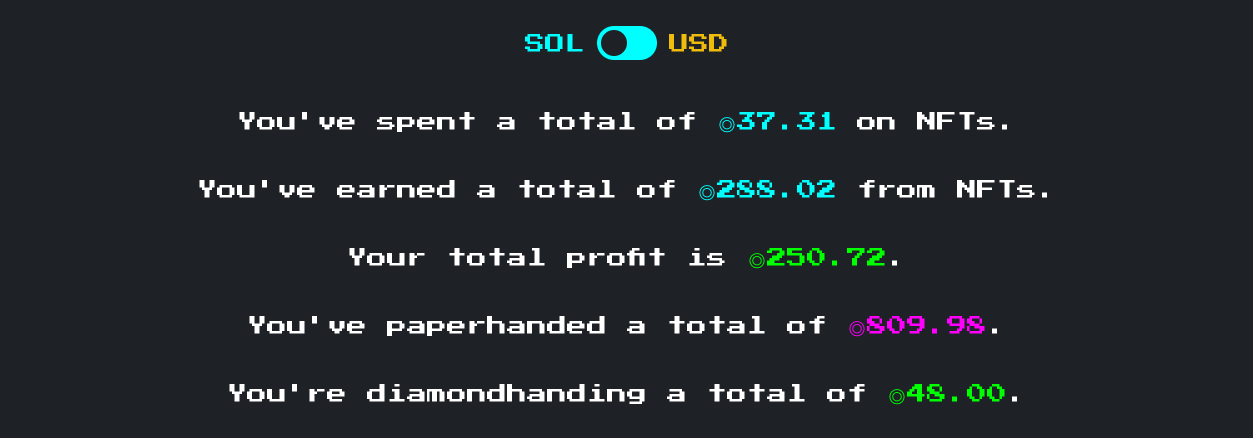
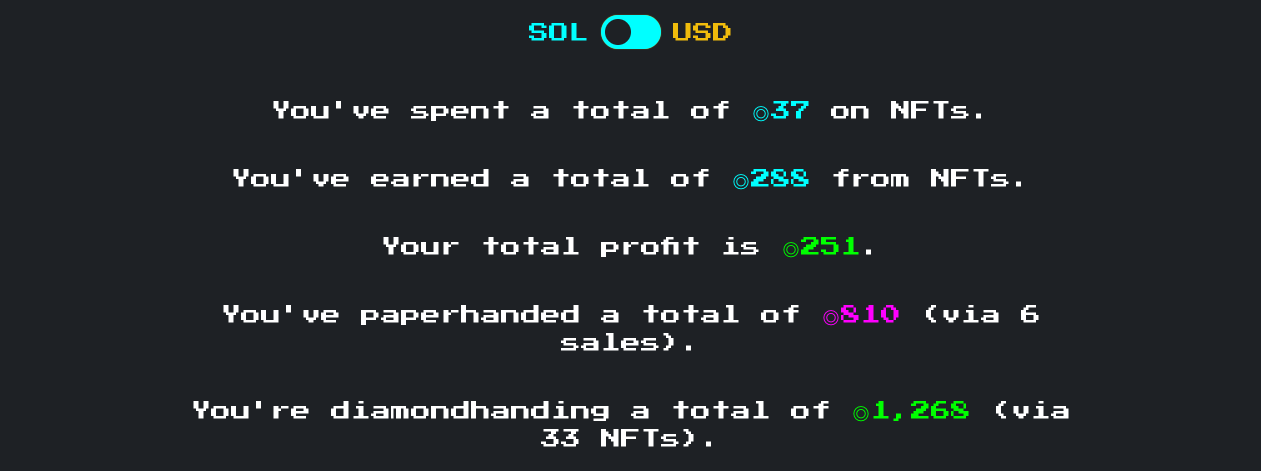
Ready for prod

diff --git a/src/views/ViewHome.vue b/src/views/ViewHome.vue
@@ -25,19 +25,19 @@
 
       <div>
         <h1 class="mt-10 w500:text-xl">You've spent a total of
-          <span class="text-rb-blue">{{ isSol ? '◎' : '$' }}{{ totalSpend.toFixed(2) }}</span> on NFTs.
+          <span class="text-rb-blue">{{ isSol ? '◎' : '$' }}{{ f(totalSpend) }}</span> on NFTs.
         </h1>
         <h1 class="my-10 w500:text-xl">You've earned a total of
-          <span class="text-rb-blue">{{ isSol ? '◎' : '$' }}{{ totalEarnings.toFixed(2) }}</span> from NFTs.
+          <span class="text-rb-blue">{{ isSol ? '◎' : '$' }}{{ f(totalEarnings) }}</span> from NFTs.
         </h1>
         <h1 class="my-10 w500:text-xl">Your total {{ neg(totalProfit) ? 'loss' : 'profit' }} is
-          <span :class="neg(totalProfit) ? 'text-rb-pink' : 'text-rb-green'">{{ isSol ? '◎' : '$' }}{{ totalProfit.toFixed(2) }}</span>.
+          <span :class="neg(totalProfit) ? 'text-rb-pink' : 'text-rb-green'">{{ isSol ? '◎' : '$' }}{{ f(totalProfit) }}</span>.
         </h1>
         <h1 class="my-10 w500:text-xl">You've paperhanded a total of
-          <span :class="neg(totalPaperhanded) ? 'text-rb-green' : 'text-rb-pink'">{{ isSol ? '◎' : '$' }}{{ totalPaperhanded.toFixed(2) }}</span> (via {{paperSales}} sales).
+          <span :class="neg(totalPaperhanded) ? 'text-rb-green' : 'text-rb-pink'">{{ isSol ? '◎' : '$' }}{{ f(totalPaperhanded) }}</span> (via {{paperSales}} sales).
         </h1>
-        <h1 class="mb-10 w500:text-xl">You're diamondhanding a total of
-          <span :class="neg(totalDiamondhanded) ? 'text-rb-pink' : 'text-rb-green'">{{ isSol ? '◎' : '$' }}{{ totalDiamondhanded.toFixed(2) }}</span> (via {{diamondNFTs}} NFTs).
+        <h1 class="mb-20 w500:text-xl">You're diamondhanding a total of
+          <span :class="neg(totalDiamondhanded) ? 'text-rb-pink' : 'text-rb-green'">{{ isSol ? '◎' : '$' }}{{ f(totalDiamondhanded) }}</span> (via {{diamondNFTs}} NFTs).
         </h1>
       </div>
 
@@ -106,6 +106,7 @@ import TheCurrencySlider from "@/components/TheCurrencySlider.vue";
 import TheViewOptions from "@/components/TheViewOptions.vue";
 import TheAdvancedOptions from "@/components/TheAdvancedOptions.vue";
 import TheSolanaLogo from "@/components/TheSolanaLogo.vue";
+import {f} from '@/common/util';
 
 export default defineComponent({
   components: {
@@ -300,7 +301,7 @@ export default defineComponent({
 
     const shareText = computed(() => {
       const host = window.location.origin;
-      const text = encodeURI(`I aped🍌 into ${isSol.value ? '◎' : '$'}${totalSpend.value.toFixed(2)} worth of NFTs, paperhanded🧻 ${isSol.value ? '◎' : '$'}${totalPaperhanded.value.toFixed(2)}, and am diamondhanding💎 ${isSol.value ? '◎' : '$'}${totalDiamondhanded.value.toFixed(2)}.`)
+      const text = encodeURI(`I aped🍌 into ${isSol.value ? '◎' : '$'}${f(totalSpend.value)} worth of NFTs, paperhanded🧻 ${isSol.value ? '◎' : '$'}${f(totalPaperhanded.value)}, and am diamondhanding💎 ${isSol.value ? '◎' : '$'}${f(totalDiamondhanded.value)}.`)
       const url = encodeURI(`${host}/addr/${address.value!}`)
       const hashtags = encodeURI('NFTs,Solana')
       return `text=${text}&url=${url}&hashtags=${hashtags}`
@@ -352,6 +353,7 @@ export default defineComponent({
       progress,
       // sharing
       shareText,
+      f,
     }
   }
 })

diff --git a/src/components/NFTCard.vue b/src/components/NFTCard.vue
@@ -13,12 +13,12 @@
             <a class="ml-5" :href="`https://explorer.solana.com/address/${nft.mint}`" target="_blank">🔗</a>
           </div>
 
-          <p v-if="nft.boughtAt" class="text">Bought for: <span class="text-rb-blue">{{ isSol ? '◎' : '$' }}{{ nft.boughtAt.toFixed(2) }}</span></p>
-          <p v-if="nft.soldAt" class="text">Sold for: <span class="text-rb-blue">{{ isSol ? '◎' : '$' }}{{nft.soldAt.toFixed(2)}}</span></p>
-          <p v-if="nft.currentPrices" class="text">Current {{priceMethod}}: <span class="text-rb-blue">{{ isSol ? '◎' : '$' }}{{nft.currentPrices[priceMethod].toFixed(2)}}</span></p>
-          <p v-if="nft.profit" class="text">{{neg(nft.profit) ? 'Loss' : 'Profit'}} from sale: <span :class="neg(nft.profit) ? 'text-rb-pink' : 'text-rb-green'">{{ isSol ? '◎' : '$' }}{{ nft.profit.toFixed(2) }}</span></p>
-          <p v-if="nft.paperhanded" class="text">Paperhanded worth: <span :class="neg(nft.paperhanded[priceMethod]) ? 'text-rb-green' : 'text-rb-pink'">{{ isSol ? '◎' : '$' }}{{ nft.paperhanded[priceMethod].toFixed(2) }}</span></p>
-          <p v-if="nft.diamondhanded" class="text">Diamondhanding worth: <span :class="neg(nft.diamondhanded[priceMethod]) ? 'text-rb-pink' : 'text-rb-green'">{{ isSol ? '◎' : '$' }}{{ nft.diamondhanded[priceMethod].toFixed(2) }}</span></p>
+          <p v-if="nft.boughtAt" class="text">Bought for: <span class="text-rb-blue">{{ isSol ? '◎' : '$' }}{{ f(nft.boughtAt) }}</span></p>
+          <p v-if="nft.soldAt" class="text">Sold for: <span class="text-rb-blue">{{ isSol ? '◎' : '$' }}{{ f(nft.soldAt) }}</span></p>
+          <p v-if="nft.currentPrices" class="text">Current {{priceMethod}}: <span class="text-rb-blue">{{ isSol ? '◎' : '$' }}{{ f(nft.currentPrices[priceMethod]) }}</span></p>
+          <p v-if="nft.profit" class="text">{{neg(nft.profit) ? 'Loss' : 'Profit'}} from sale: <span :class="neg(nft.profit) ? 'text-rb-pink' : 'text-rb-green'">{{ isSol ? '◎' : '$' }}{{ f(nft.profit) }}</span></p>
+          <p v-if="nft.paperhanded" class="text">Paperhanded worth: <span :class="neg(nft.paperhanded[priceMethod]) ? 'text-rb-green' : 'text-rb-pink'">{{ isSol ? '◎' : '$' }}{{ f(nft.paperhanded[priceMethod]) }}</span></p>
+          <p v-if="nft.diamondhanded" class="text">Diamondhanding worth: <span :class="neg(nft.diamondhanded[priceMethod]) ? 'text-rb-pink' : 'text-rb-green'">{{ isSol ? '◎' : '$' }}{{ f(nft.diamondhanded[priceMethod]) }}</span></p>
           <p v-if="!nft.currentPrices" class="text text-gray-400">This NFT collection is missing prices:( Fix by
             <a href="https://github.com/ilmoi/nftape.me#-important---adding-nft-collections" target="_blank">sending a PR</a> (~2min)</p>
         </div>
@@ -29,6 +29,7 @@
 
 <script lang="ts">
 import {defineComponent} from "vue";
+import {f} from '@/common/util'
 
 export default defineComponent({
   props: {
@@ -38,7 +39,7 @@ export default defineComponent({
   },
   setup() {
     const neg = (amount: number) => amount < 0
-    return {neg}
+    return {neg, f}
   }
 })
 </script>

diff --git a/src/common/util.ts b/src/common/util.ts
@@ -3,7 +3,8 @@
 import { PublicKey } from '@solana/web3.js';
 import BN from 'bn.js';
 import bs58 from 'bs58';
-import { INFTData } from '@/common/types';
+
+const numeral = require('numeral');
 
 export async function okToFailAsync(callback: any, args: any[], wantObject = false) {
   try {
@@ -108,4 +109,9 @@ export function removeItemOnce(arr: any[], value: number) {
     arr.splice(index, 1);
   }
   return arr;
+}
+
+// short name to save space in html
+export function f(n: number) {
+  return numeral(n).format('0,0.0');
 }
